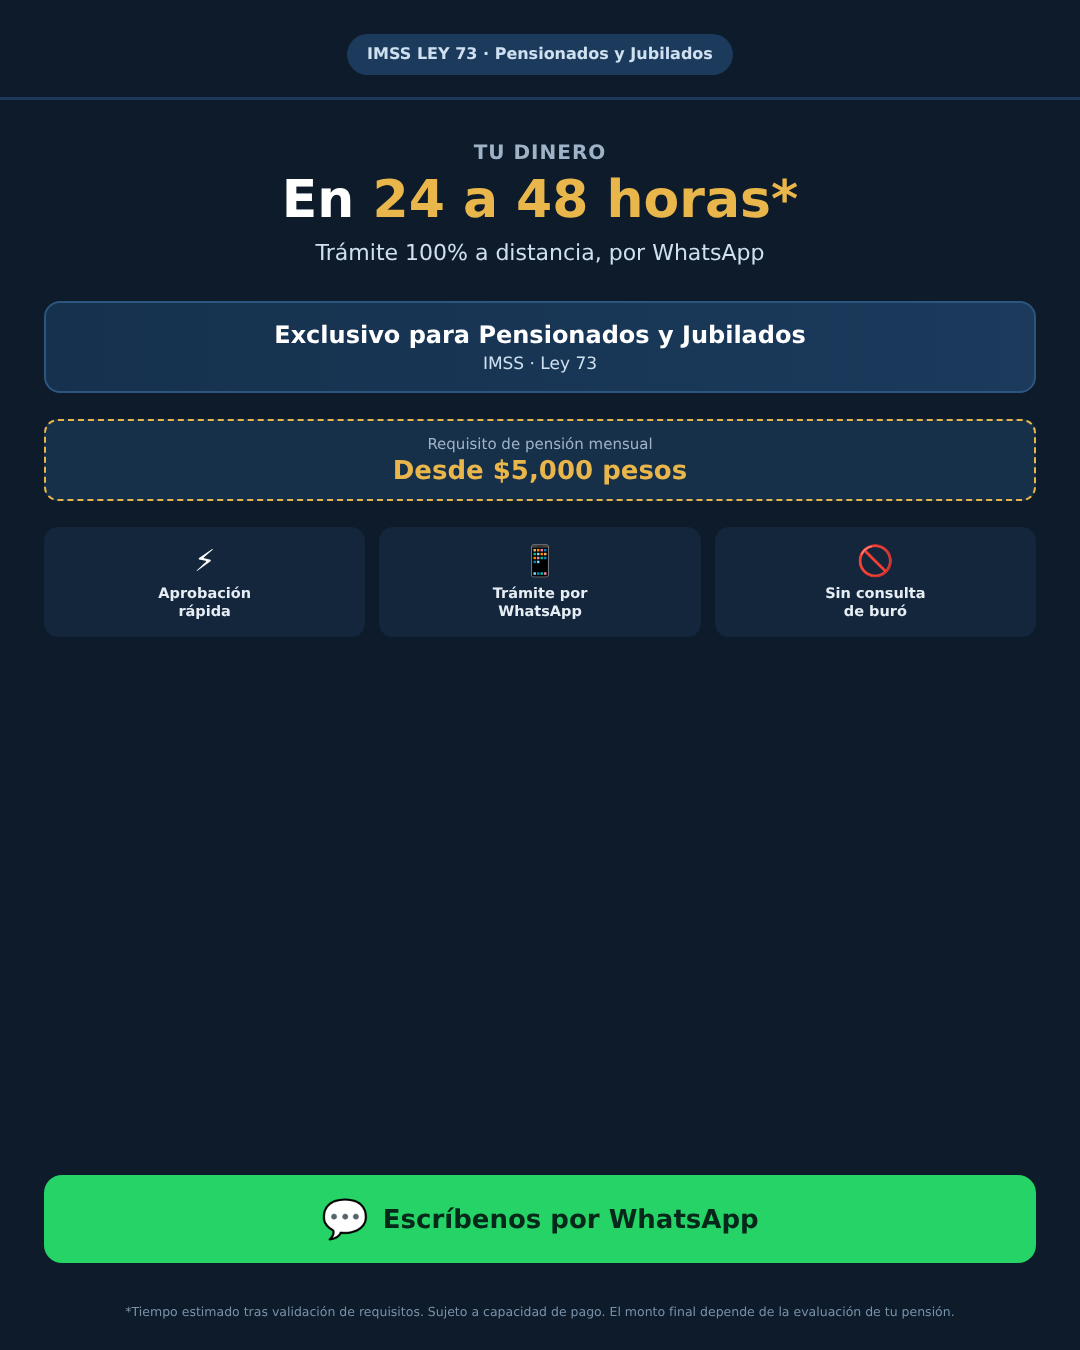
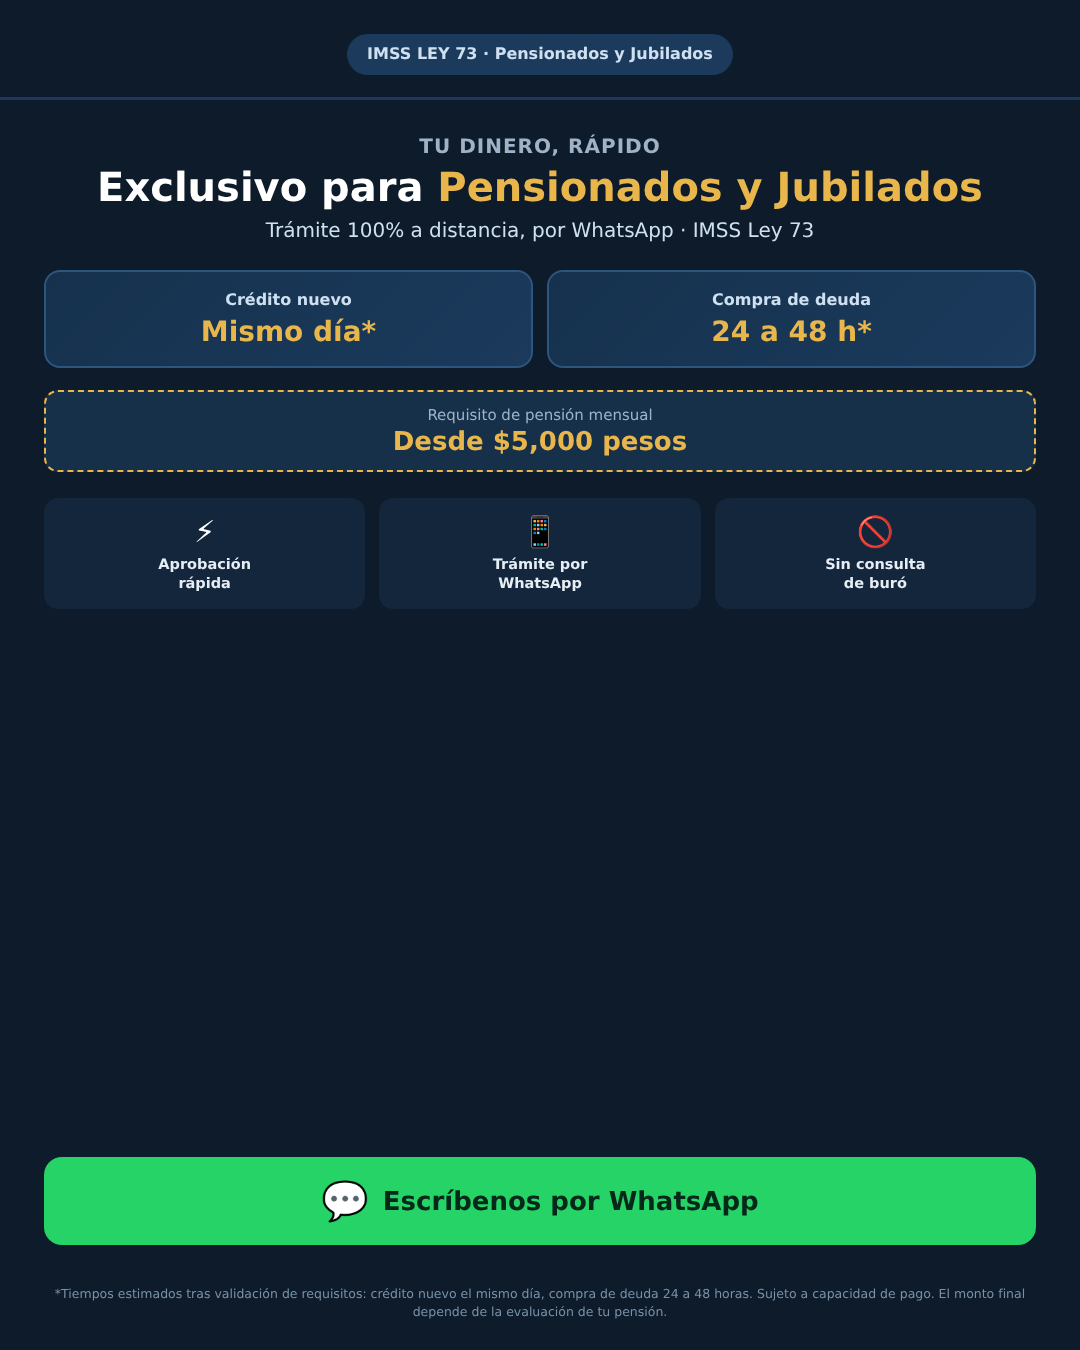
Separar tiempos en tarjeta de rapidez: crédito nuevo mismo día, compra de deuda 24-48h
Claude-Session: https://claude.ai/code/session_01TSxc4Bk7AxA9eVR7MomUPk

Changed region(s): [[0.0306, 0.0933, 0.9778, 0.4667], [0.0306, 0.84, 0.9778, 0.9956], [0.1528, 0.4044, 0.2139, 0.4667]]

diff --git a/propuesta/credito_feed_rapidez.html b/propuesta/credito_feed_rapidez.html
@@ -5,14 +5,15 @@ body{width:1080px;height:1350px;font-family:"DejaVu Sans",Arial,sans-serif;backg
 .wrap{height:100%;display:flex;flex-direction:column}
 .top{display:flex;align-items:center;justify-content:center;padding:34px 44px 22px;border-bottom:3px solid #1b3a5c}
 .badgeTop{background:#1b3a5c;color:#cfe0f0;font-size:16px;font-weight:bold;padding:10px 20px;border-radius:30px;text-align:center;line-height:1.3}
-.hero{padding:40px 44px 10px;text-align:center}
+.hero{padding:34px 44px 6px;text-align:center}
 .hero .pre{font-size:20px;color:#9fb3c8;font-weight:bold;letter-spacing:1px}
-.hero .amt{font-size:52px;font-weight:bold;color:#fff;line-height:1.15;margin-top:6px}
+.hero .amt{font-size:40px;font-weight:bold;color:#fff;line-height:1.15;margin-top:6px}
 .hero .amt b{color:#e8b64a}
-.hero .sub{font-size:22px;color:#cfe0f0;margin-top:10px}
-.audience{margin:26px 44px;background:linear-gradient(90deg,#15314d,#1b3a5c);border:2px solid #2d567f;border-radius:16px;padding:18px 24px;text-align:center}
-.audience .t{font-size:24px;font-weight:bold;color:#fff}
-.audience .s{font-size:17px;color:#cfe0f0;margin-top:4px}
+.hero .sub{font-size:20px;color:#cfe0f0;margin-top:8px}
+.speeds{display:flex;gap:14px;margin:22px 44px 22px}
+.sp{flex:1;background:linear-gradient(135deg,#15314d,#1b3a5c);border:2px solid #2d567f;border-radius:16px;padding:18px 16px;text-align:center}
+.sp .l{font-size:16px;color:#cfe0f0;font-weight:bold}
+.sp .v{font-size:28px;font-weight:bold;color:#e8b64a;margin-top:6px;line-height:1.2}
 .req{margin:0 44px 26px;background:#17304a;border:2px dashed #e8b64a;border-radius:14px;padding:14px 20px;text-align:center}
 .req .l{font-size:15px;color:#9fb3c8}
 .req .v{font-size:26px;font-weight:bold;color:#e8b64a;margin-top:2px}
@@ -32,14 +33,14 @@ body{width:1080px;height:1350px;font-family:"DejaVu Sans",Arial,sans-serif;backg
 </div>
 
 <div class="hero">
- <div class="pre">TU DINERO</div>
- <div class="amt">En <b>24 a 48 horas*</b></div>
- <div class="sub">Trámite 100% a distancia, por WhatsApp</div>
+ <div class="pre">TU DINERO, RÁPIDO</div>
+ <div class="amt">Exclusivo para <b>Pensionados y Jubilados</b></div>
+ <div class="sub">Trámite 100% a distancia, por WhatsApp · IMSS Ley 73</div>
 </div>
 
-<div class="audience">
- <div class="t">Exclusivo para Pensionados y Jubilados</div>
- <div class="s">IMSS · Ley 73</div>
+<div class="speeds">
+ <div class="sp"><div class="l">Crédito nuevo</div><div class="v">Mismo día*</div></div>
+ <div class="sp"><div class="l">Compra de deuda</div><div class="v">24 a 48 h*</div></div>
 </div>
 
 <div class="req">
@@ -58,6 +59,6 @@ body{width:1080px;height:1350px;font-family:"DejaVu Sans",Arial,sans-serif;backg
 <div class="cta"><div class="i">💬</div><div class="t">Escríbenos por WhatsApp</div></div>
 
 <div class="foot">
- <div class="fine">*Tiempo estimado tras validación de requisitos. Sujeto a capacidad de pago. El monto final depende de la evaluación de tu pensión.</div>
+ <div class="fine">*Tiempos estimados tras validación de requisitos: crédito nuevo el mismo día, compra de deuda 24 a 48 horas. Sujeto a capacidad de pago. El monto final depende de la evaluación de tu pensión.</div>
 </div>
 </div></body></html>
